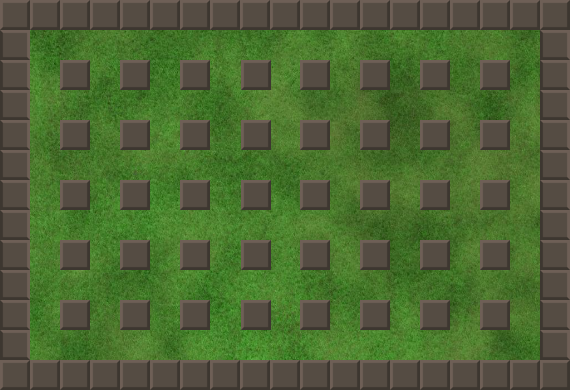
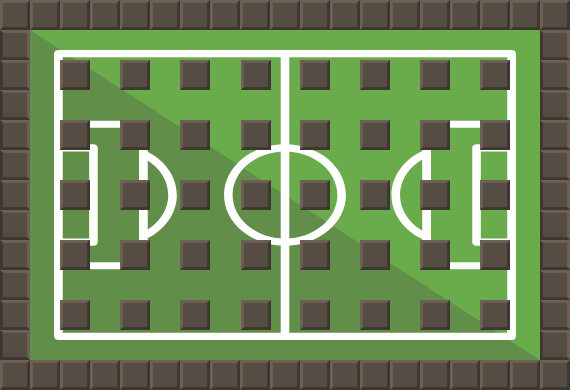
add map

diff --git a/front-end/src/app.css b/front-end/src/app.css
@@ -7,15 +7,14 @@ body{
   color: white;
 }
 
-.break::before {
+.break {
   content: url(./assets/tile_1.png);
   background-size: cover;
-  font-size: 1.5rem;
 }
 
 
 .game-map{  
-  /* background-image: url(./assets/gras.jpg); */
+  background-image: url(./assets/map.png);
   position: absolute;
   width: 570px;
   left: 25%;
@@ -25,9 +24,9 @@ body{
   
 }
 
-.unbreak{
+/* .unbreak{
   background-image: url(./assets/tile_0.png);
-}
+} */
 
 .game-map .tile {
   width: 30px;
